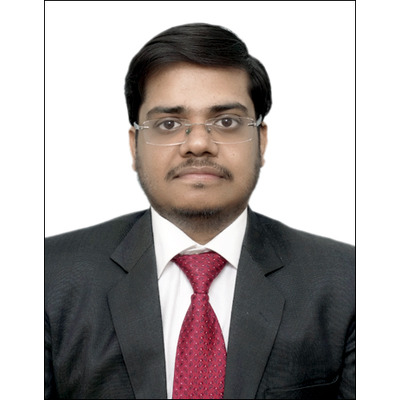
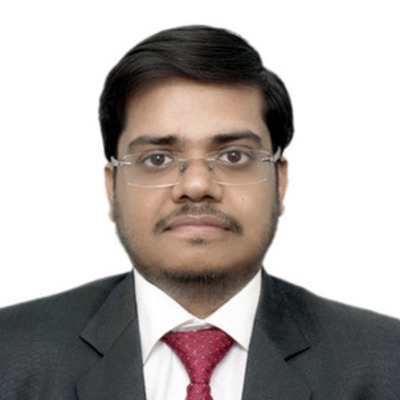
membeers design change

diff --git a/key-members.html b/key-members.html
@@ -74,7 +74,134 @@
         </div>
       </div>
     </div>
-    <div class="best-features about-features">
+    <div class="team-members">
+      <div class="container">
+        <div class="row">
+          <div class="col-md-6">
+            <div class="team-member">
+              <div class="thumb-container">
+                <img src="assets/website-images/bindra.png" alt="">
+                <div class="hover-effect">
+                  <div class="hover-content">
+                    <ul class="social-icons">
+                      <li><a href="#"><i class="fa fa-linkedin"></i></a></li>
+                    </ul>
+                  </div>
+                </div>
+              </div>
+              <div class="down-content">
+                <h4>Prof. Hitesh Bindra</h4>
+                <span>Principal Investigator/Lab Director</span>
+                <p>B.E. (Chemical Engineering), Panjab University</p>
+                <p>M.S. (Nuclear Engineering), University of Illinois</p>
+                <p>Ph.D. (Nuclear Engineering), University of Illinois</p>
+                <p>B.E. (Chemical Engineering), Panjab University</p>
+                <a href="https://scholar.google.com/citations?user=B5ZdeDUAAAAJ&hl=en" target="_blank">Google Scholar</a> | <a href="https://engineering.purdue.edu/NE/people/ptProfile?resource_id=270971" target="_blank">About us</a>
+              </div>
+            </div>
+          </div>
+          <div class="col-md-6">
+            <div class="team-member">
+              <div class="thumb-container">
+                <img src="assets/website-images/Ketan Ajay-Postdoctoral_Associate.jpg" alt="">
+                <div class="hover-effect">
+                  <div class="hover-content">
+                    <ul class="social-icons">
+                      <li><a href="#"><i class="fa fa-linkedin"></i></a></li>
+                    </ul>
+                  </div>
+                </div>
+              </div>
+              <div class="down-content">
+                <h4>Ketan Ajay</h4>
+                <span>Research Associate</span>
+                <p>M.S. (Mechanical Engineering), Indian Institute of Technology</p>
+                <p>Ph.D. (mechanical  Engineering), University of Illinois</p>
+              </div>
+            </div>
+          </div>
+        </div>
+        <div class="row">
+          <div class="col-md-3">
+            <div class="team-member">
+              <div class="thumb-container">
+                <img src="assets/website-images/John_Matulis.jpeg" alt="">
+                <div class="hover-effect">
+                  <div class="hover-content">
+                    <ul class="social-icons">
+                      <li><a href="#"><i class="fa fa-linkedin"></i></a></li>
+                    </ul>
+                  </div>
+                </div>
+              </div>
+              <div class="down-content">
+                <h4>John Matulis</h4>
+                <span>Graduate Student</span>
+                <p>Bachelor of Science <br>(Mechanical Engineering)<br> Kansas State University</p>
+              </div>
+            </div>
+          </div>
+          <div class="col-md-3">
+            <div class="team-member">
+              <div class="thumb-container">
+                <img src="assets/website-images/T-Ying.jpg" alt="">
+                <div class="hover-effect">
+                  <div class="hover-content">
+                    <ul class="social-icons">
+                      <li><a href="#"><i class="fa fa-linkedin"></i></a></li>
+                    </ul>
+                  </div>
+                </div>
+              </div>
+              <div class="down-content">
+                <h4>T-Ying Lin</h4>
+                <span>Graduate Student</span>
+                <p>Bachelor of Science <br>(Mechanical Engineering)<br> Kansas State University</p>
+              </div>
+            </div>
+          </div>
+          <div class="col-md-3">
+            <div class="team-member">
+              <div class="thumb-container">
+                <img src="assets/website-images/Broderick Sieh - 13.jpg" alt="">
+                <div class="hover-effect">
+                  <div class="hover-content">
+                    <ul class="social-icons">
+                      <li><a href="#"><i class="fa fa-linkedin"></i></a></li>
+                    </ul>
+                  </div>
+                </div>
+              </div>
+              <div class="down-content">
+                <h4>Broderick Sieh</h4>
+                <span>Graduate Student</span>
+                <p>Bachelor of Science <br>(Mechanical Engineering)<br> Kansas State University</p>
+              </div>
+            </div>
+          </div>
+          <div class="col-md-3">
+            <div class="team-member">
+              <div class="thumb-container">
+                <img src="assets/website-images/Molly_Ross.jpg" alt="">
+                <div class="hover-effect">
+                  <div class="hover-content">
+                    <ul class="social-icons">
+                      <li><a href="#"><i class="fa fa-linkedin"></i></a></li>
+                    </ul>
+                  </div>
+                </div>
+              </div>
+              <div class="down-content">
+                <h4>Molly Ross</h4>
+                <span>Graduate Student</span>
+                <p>Bachelor of Science <br>(Mechanical Engineering)<br> Kansas State University</p>
+              </div>
+            </div>
+          </div>
+        </div>
+      </div>
+    </div>
+    <!--div class="best-features about-features">
       <div class="container">
         <div class="row">
           <div class="col-md-12">
@@ -98,8 +225,8 @@
           </div>
         </div>
       </div>
-    </div>
-    <div class="best-features about-features">
+    </div-->
+    <!--div class="best-features about-features">
       <div class="container">
         <div class="row">
           <div class="col-md-12">
@@ -121,8 +248,8 @@
           </div>
         </div>
       </div>
-    </div>
-    <div class="best-features about-features">
+    </div-->
+    <!--div class="best-features about-features">
       <div class="container">
         <div class="row">
           <div class="col-md-12">
@@ -187,7 +314,7 @@
           </div>
         </div>
       </div>
-    </div>
+    </div-->
     <footer>
       <div class="container">
         <div class="row">
